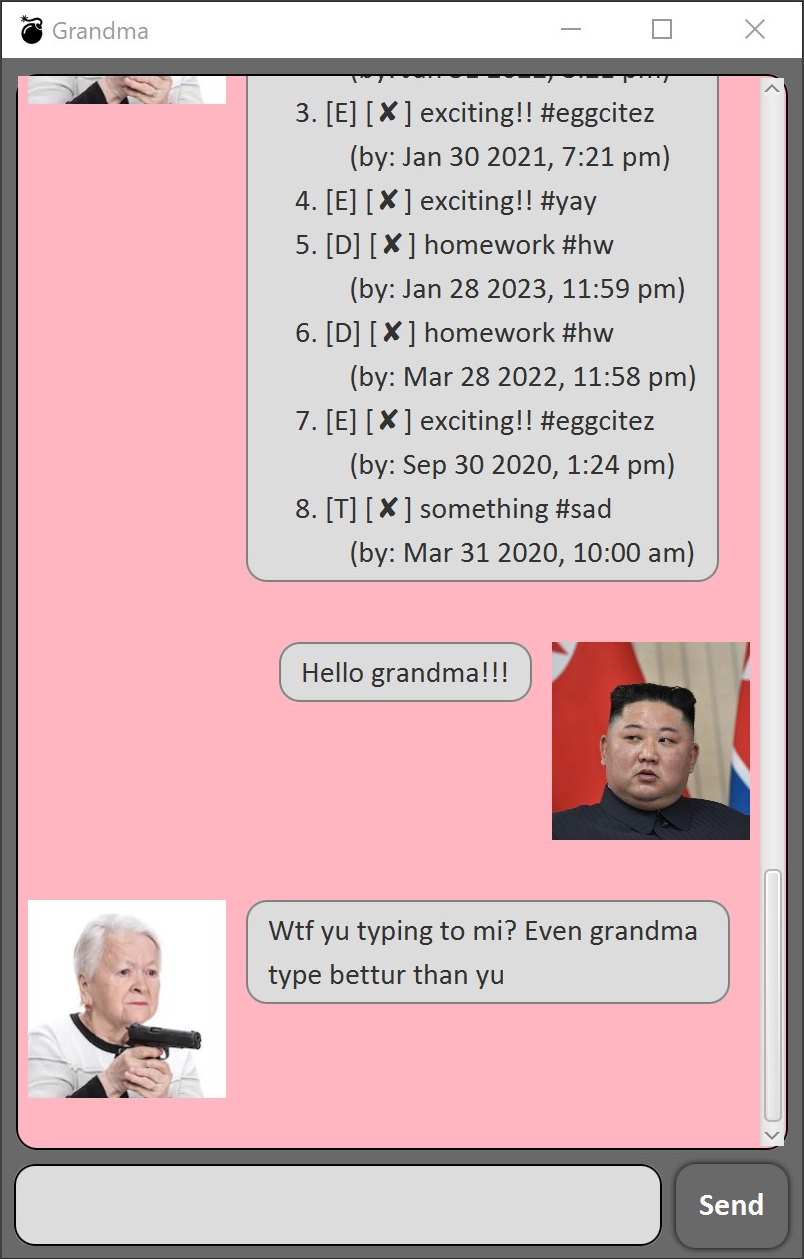
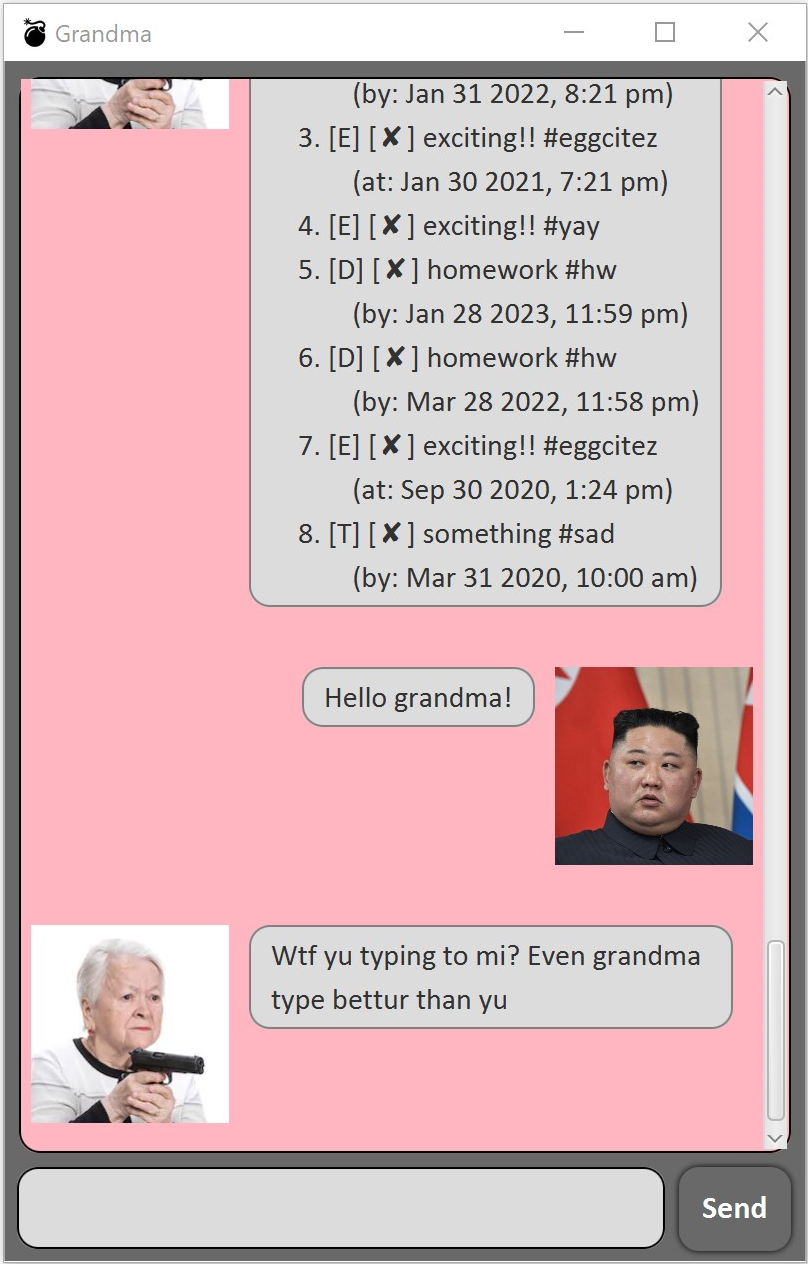
Fix minor bugs

Changed region(s): [[0.0, 0.0, 1.0, 1.0]]

diff --git a/src/main/java/raythx/grandma/command/AddDeadlineCommand.java b/src/main/java/raythx/grandma/command/AddDeadlineCommand.java
@@ -1,7 +1,7 @@
 package raythx.grandma.command;
 
 import raythx.grandma.exception.DukeException;
-import raythx.grandma.exception.MissingTagException;
+import raythx.grandma.exception.MissingDetailsException;
 import raythx.grandma.exception.WrongDescriptionException;
 import raythx.grandma.storage.Storage;
 import raythx.grandma.task.Deadline;
@@ -23,7 +23,7 @@ public class AddDeadlineCommand extends AddCommand {
         String[] hashtagSplit = descriptionSplit[0].split(" #", 2);
         Task task;
         if (hashtagSplit.length == 1) {
-            throw new MissingTagException();
+            throw new MissingDetailsException();
         } else if (descriptionSplit.length == 1) {
             task = new Deadline(hashtagSplit[0], hashtagSplit[1]);
         } else if (descriptionSplit.length == 2) {

diff --git a/src/main/java/raythx/grandma/command/AddEventCommand.java b/src/main/java/raythx/grandma/command/AddEventCommand.java
@@ -1,7 +1,7 @@
 package raythx.grandma.command;
 
 import raythx.grandma.exception.DukeException;
-import raythx.grandma.exception.MissingTagException;
+import raythx.grandma.exception.MissingDetailsException;
 import raythx.grandma.exception.WrongDescriptionException;
 import raythx.grandma.storage.Storage;
 import raythx.grandma.task.Event;
@@ -23,7 +23,7 @@ public class AddEventCommand extends AddCommand {
         String[] hashtagSplit = descriptionSplit[0].split(" #", 2);
         Task task;
         if (hashtagSplit.length == 1) {
-            throw new MissingTagException();
+            throw new MissingDetailsException();
         } else if (descriptionSplit.length == 1) {
             task = new Event(hashtagSplit[0], hashtagSplit[1]);
         } else if (descriptionSplit.length == 2) {

diff --git a/src/main/java/raythx/grandma/command/AddTodoCommand.java b/src/main/java/raythx/grandma/command/AddTodoCommand.java
@@ -1,7 +1,7 @@
 package raythx.grandma.command;
 
 import raythx.grandma.exception.DukeException;
-import raythx.grandma.exception.MissingTagException;
+import raythx.grandma.exception.MissingDetailsException;
 import raythx.grandma.exception.WrongDescriptionException;
 import raythx.grandma.storage.Storage;
 import raythx.grandma.task.Task;
@@ -23,7 +23,7 @@ public class AddTodoCommand extends AddCommand {
         String[] hashtagSplit = descriptionSplit[0].split(" #", 2);
         Task task;
         if (hashtagSplit.length == 1) {
-            throw new MissingTagException();
+            throw new MissingDetailsException();
         } else if (descriptionSplit.length == 1) {
             task = new ToDo(hashtagSplit[0], hashtagSplit[1]);
         } else if (descriptionSplit.length == 2) {

diff --git a/src/main/java/raythx/grandma/task/Event.java b/src/main/java/raythx/grandma/task/Event.java
@@ -96,7 +96,7 @@ public class Event extends Task {
             assert date == null;
             return "[" + tag + "] " + super.toString();
         } else {
-            return "[" + tag + "] " + super.toString() + "\n            (by: "
+            return "[" + tag + "] " + super.toString() + "\n            (at: "
                     + date.format(DateTimeFormatter.ofPattern(OUTPUT_DATE_FORMAT))
                     + ", " + time.format(DateTimeFormatter.ofPattern(OUTPUT_TIME_FORMAT)) + ")";
         }

diff --git a/src/main/java/raythx/grandma/exception/MissingDetailsException.java b/src/main/java/raythx/grandma/exception/MissingDetailsException.java
@@ -1,10 +1,10 @@
 package raythx.grandma.exception;
 
 /**
- * Checked exception as a result of being unable to load task.
+ * Checked exception as a result of missing description or tag.
  */
-public class MissingTagException extends DukeException {
-    public MissingTagException() {
-        super("Whr da hell yur #tag at..?");
+public class MissingDetailsException extends DukeException {
+    public MissingDetailsException() {
+        super("Whr da hell yur description or #tag at..?");
     }
 }
